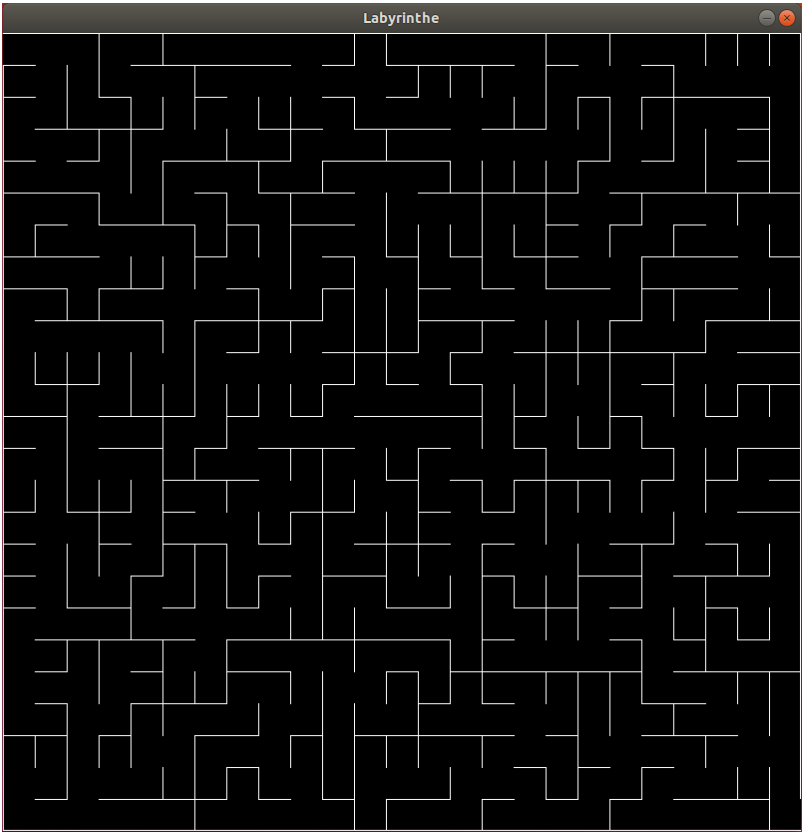
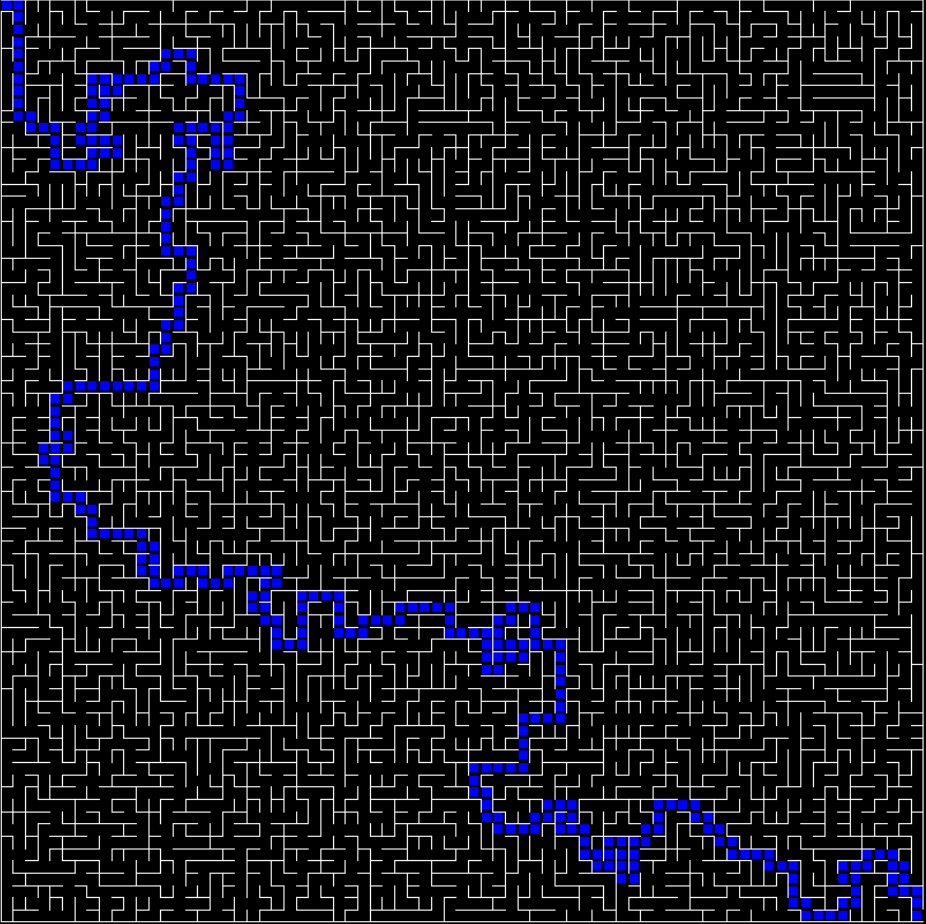
Many changes

diff --git a/_projects/9_project.md b/_projects/9_project.md
@@ -1,11 +1,10 @@
 ---
 layout: page
-title: project 9
-description: another project with an image 🎉
-img: assets/img/6.jpg
-importance: 4
-category: academic
-published: false
+title: Flow-based generative models
+description: How to train them efficiently using flow matching and optimal transport
+img: assets/img/flow_matching.gif
+importance: 3
+category: personal
 ---
 
 Every project has a beautiful feature showcase page.

diff --git a/_projects/4_project.md b/_projects/4_project.md
@@ -1,7 +1,7 @@
 ---
 layout: page
-title: Traveling Salesman and Knapsack problems solver
-description: Greedy algorithms, dynamic programming, integer linear optimization, local search, Kruskal and Christofides.
+title: TSP and Knapsack problem solver
+description: Greedy algorithms, dynamic programming, integer linear optimization, local search, Kruskal.
 img: assets/img/TSP.png
 importance: 2
 category: academic

diff --git a/_pages/references.md b/_pages/references.md
@@ -149,7 +149,7 @@ nav_order: 3
 .tl-year::after {
   content: "";
   position: absolute;
-  right: -0.6rem;      /* centré par rapport à la barre à 7.3rem */
+  right: -0.4rem;      /* centré par rapport à la barre à 7.3rem */
   top: .45rem;
   width: .6rem;
   height: .6rem;

diff --git a/_projects/5_project.md b/_projects/5_project.md
@@ -1,8 +1,8 @@
 ---
 layout: page
 title: Maze generation
-description: Implemented in C++
-img: assets/img/Maze.png
+description: Random maze generation and optimal pathfinding with the A* algorithm in C++
+img: assets/img/maze.png
 importance: 3
 category: academic
 ---

diff --git a/_projects/3_project.md b/_projects/3_project.md
@@ -1,6 +1,6 @@
 ---
 layout: page
-title: Traveling Salesman and Knapsack problems solver
+title: TSP and Knapsack problems solver
 description: 
 img: assets/img/7.jpg
 redirect: https://unsplash.com

diff --git a/_projects/10_project.md b/_projects/10_project.md
@@ -6,6 +6,7 @@ img: assets/img/12.jpg
 importance: 2
 category: academic
 related_publications: true
+published: false
 ---
 
 Every project has a beautiful feature showcase page.
